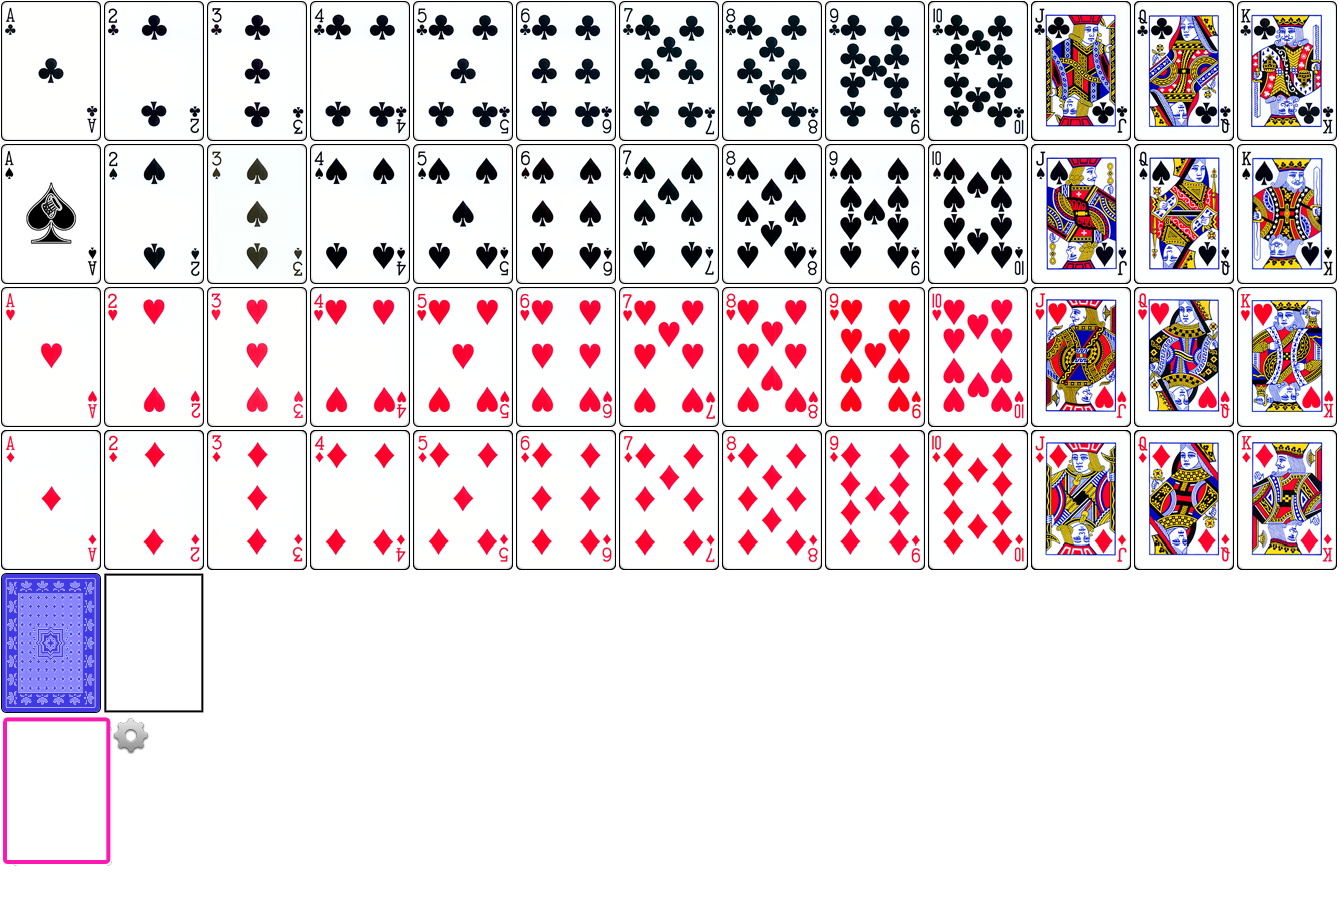
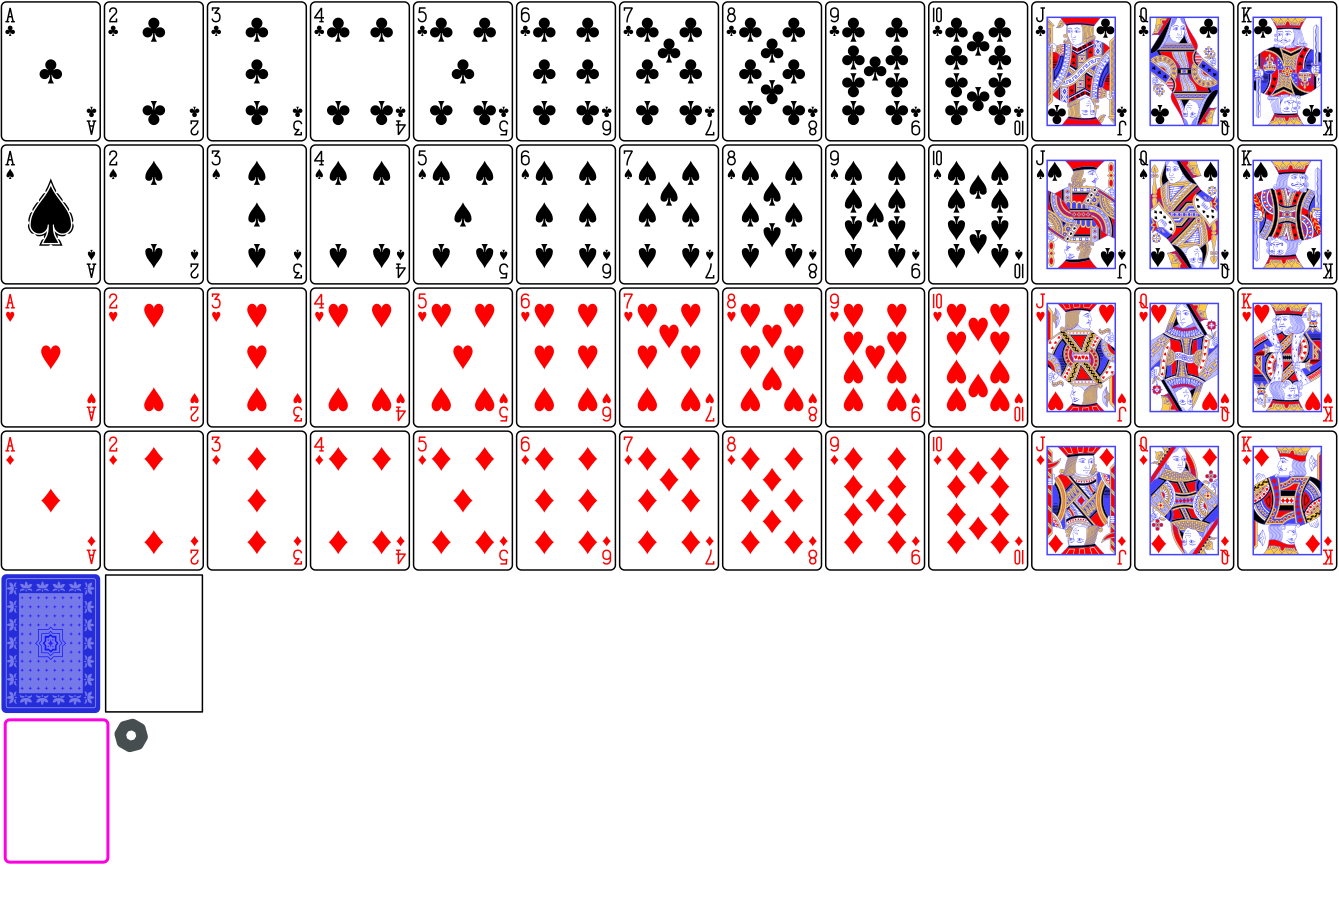
Update to card images following feedback.

diff --git a/war/style.css b/war/style.css
@@ -27,12 +27,26 @@ animateOn {
 	-webkit-transition: top 1200ms ease-out;
 }
 
+
 span.indicator,span.card,span.placeholder,span#gears {
-	/*background: url('cards103x143.png');*/
-	background: url('cards206x286.png');
+	background: url('cards103x143.png');
+}
+
+@media
+only screen and (-webkit-min-device-pixel-ratio: 1.25),
+only screen and ( min--moz-device-pixel-ratio: 1.25),
+only screen and ( -o-min-device-pixel-ratio: 1.25/1),
+only screen and ( min-device-pixel-ratio: 1.25) {
+	span.indicator, span.card, span.placeholder, span#gears {
+		background: url('cards206x286.png');
+	}
+}
+
+span.indicator,span.card,span.placeholder,span#gears {
 	background-size: 1339px;
 	position: absolute;
 }
+
 
 span.overlay {
 	position: absolute;
